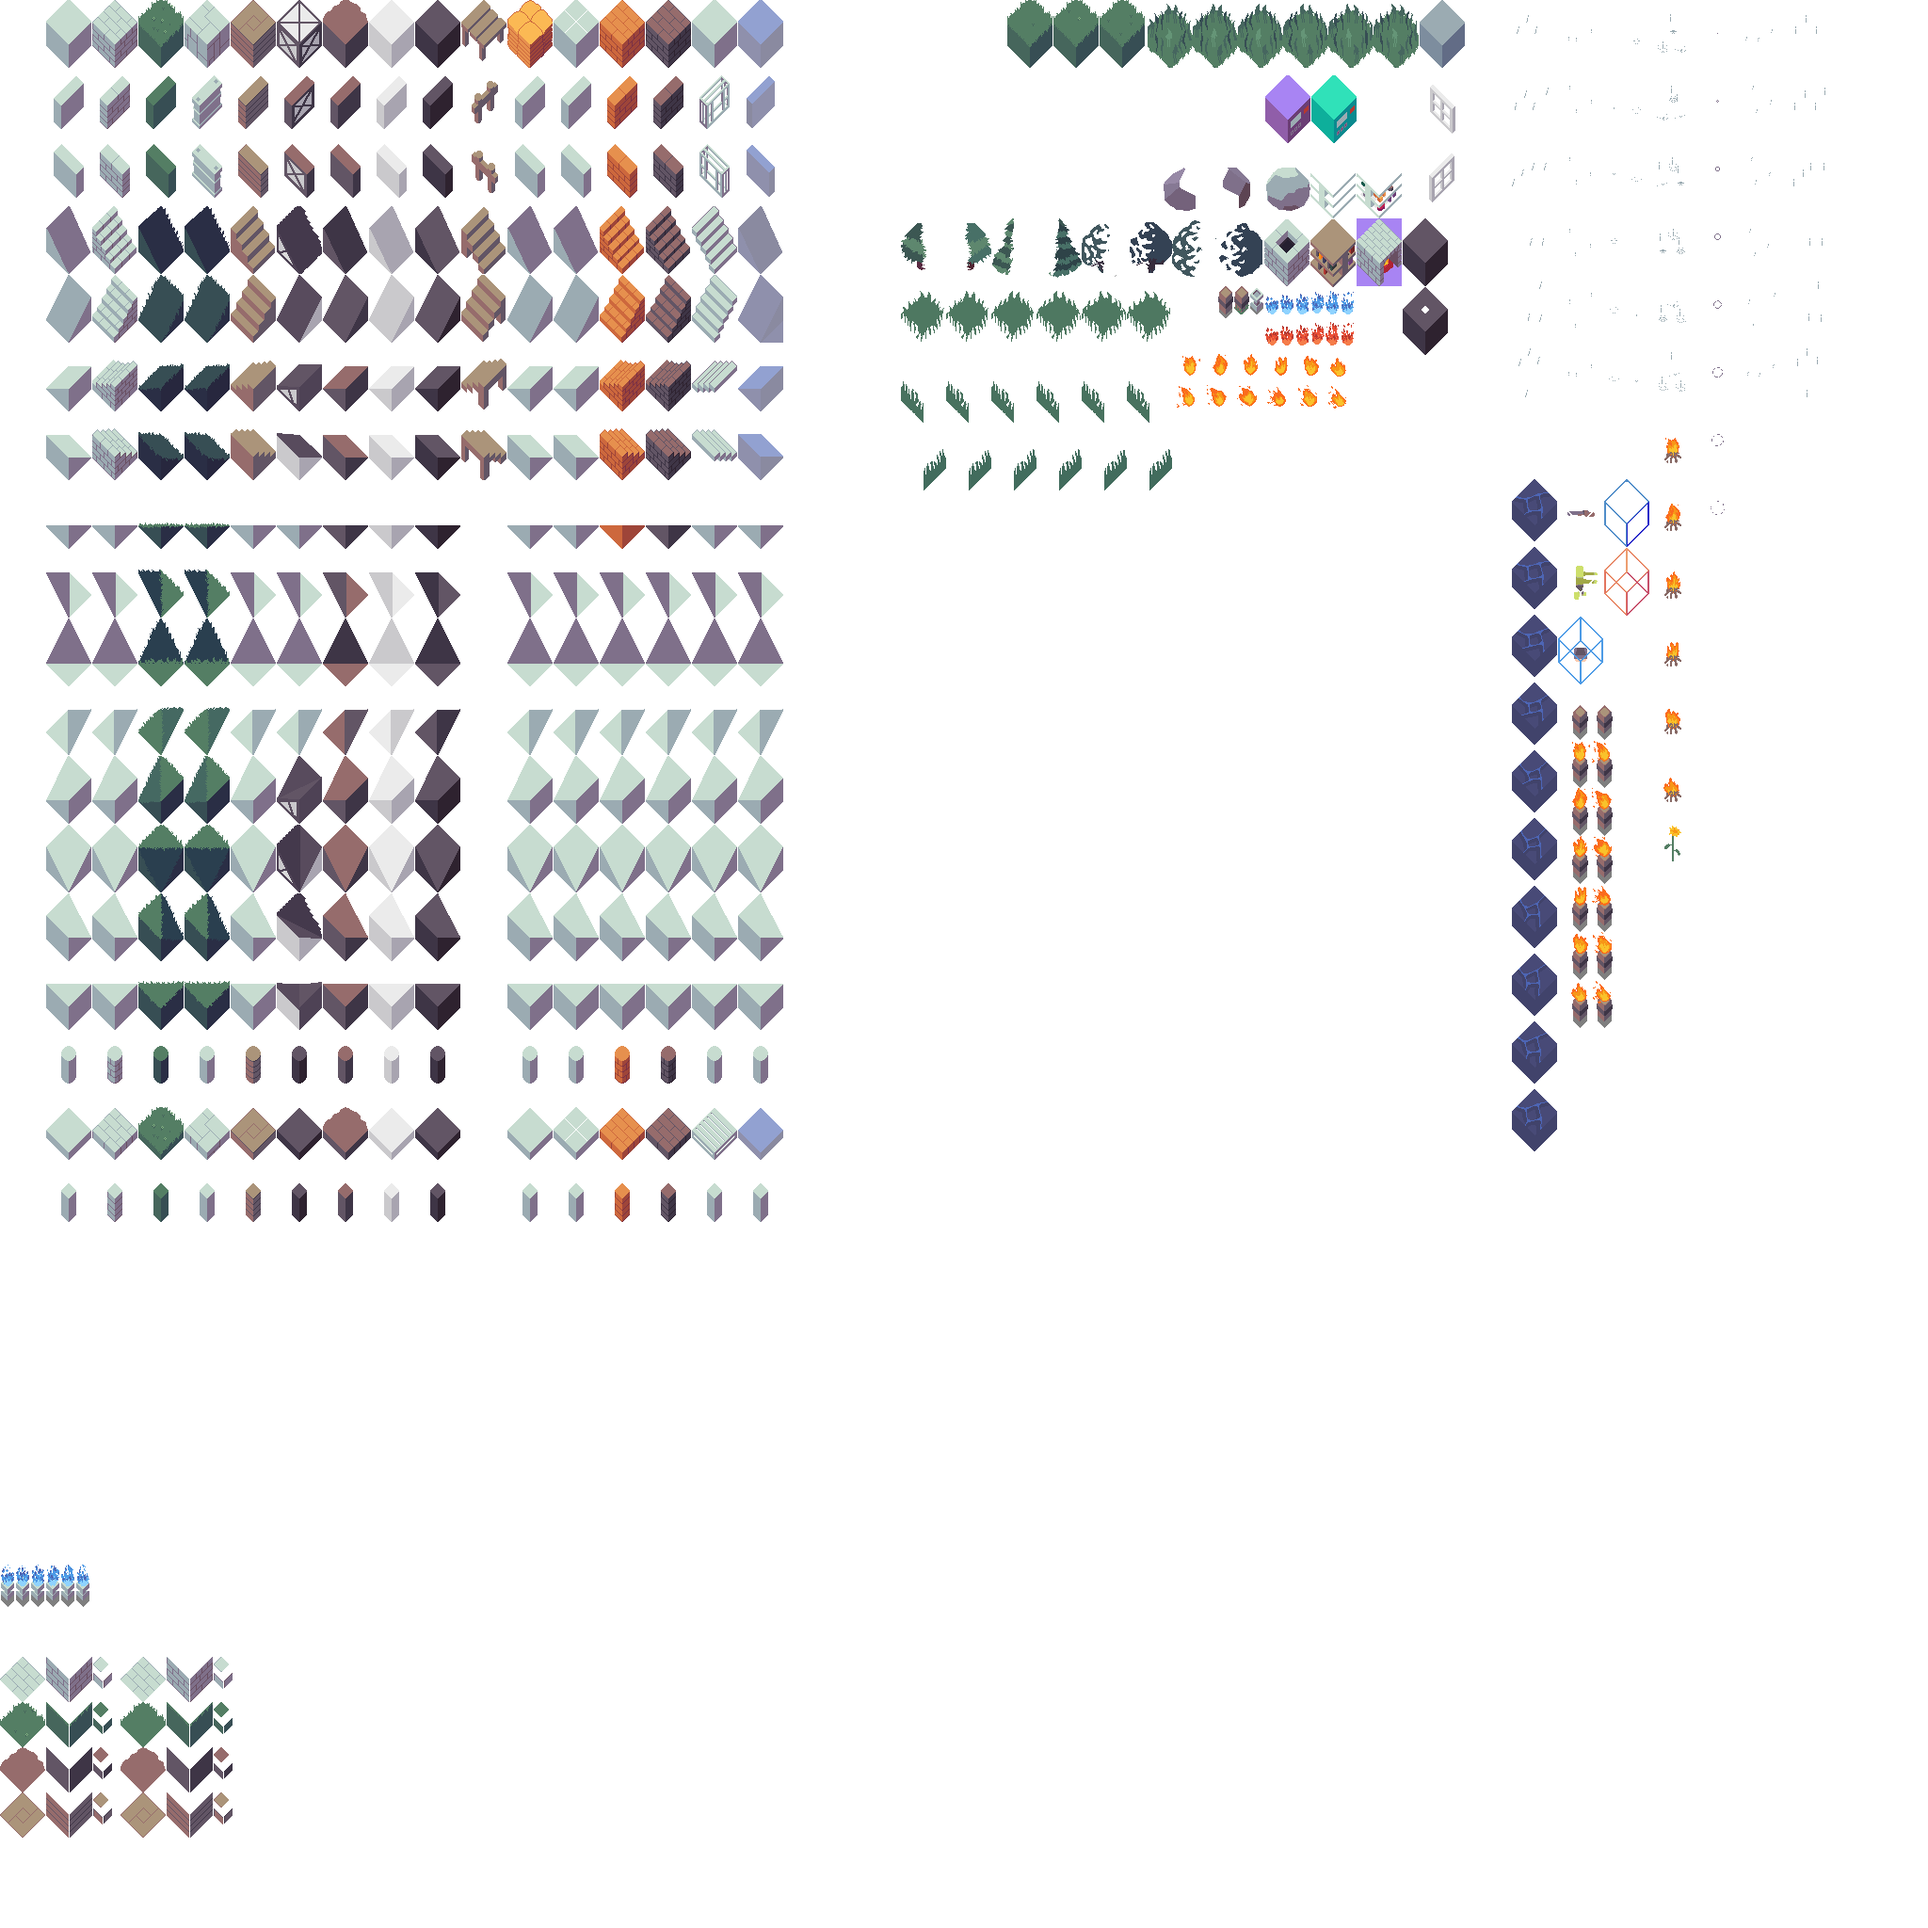
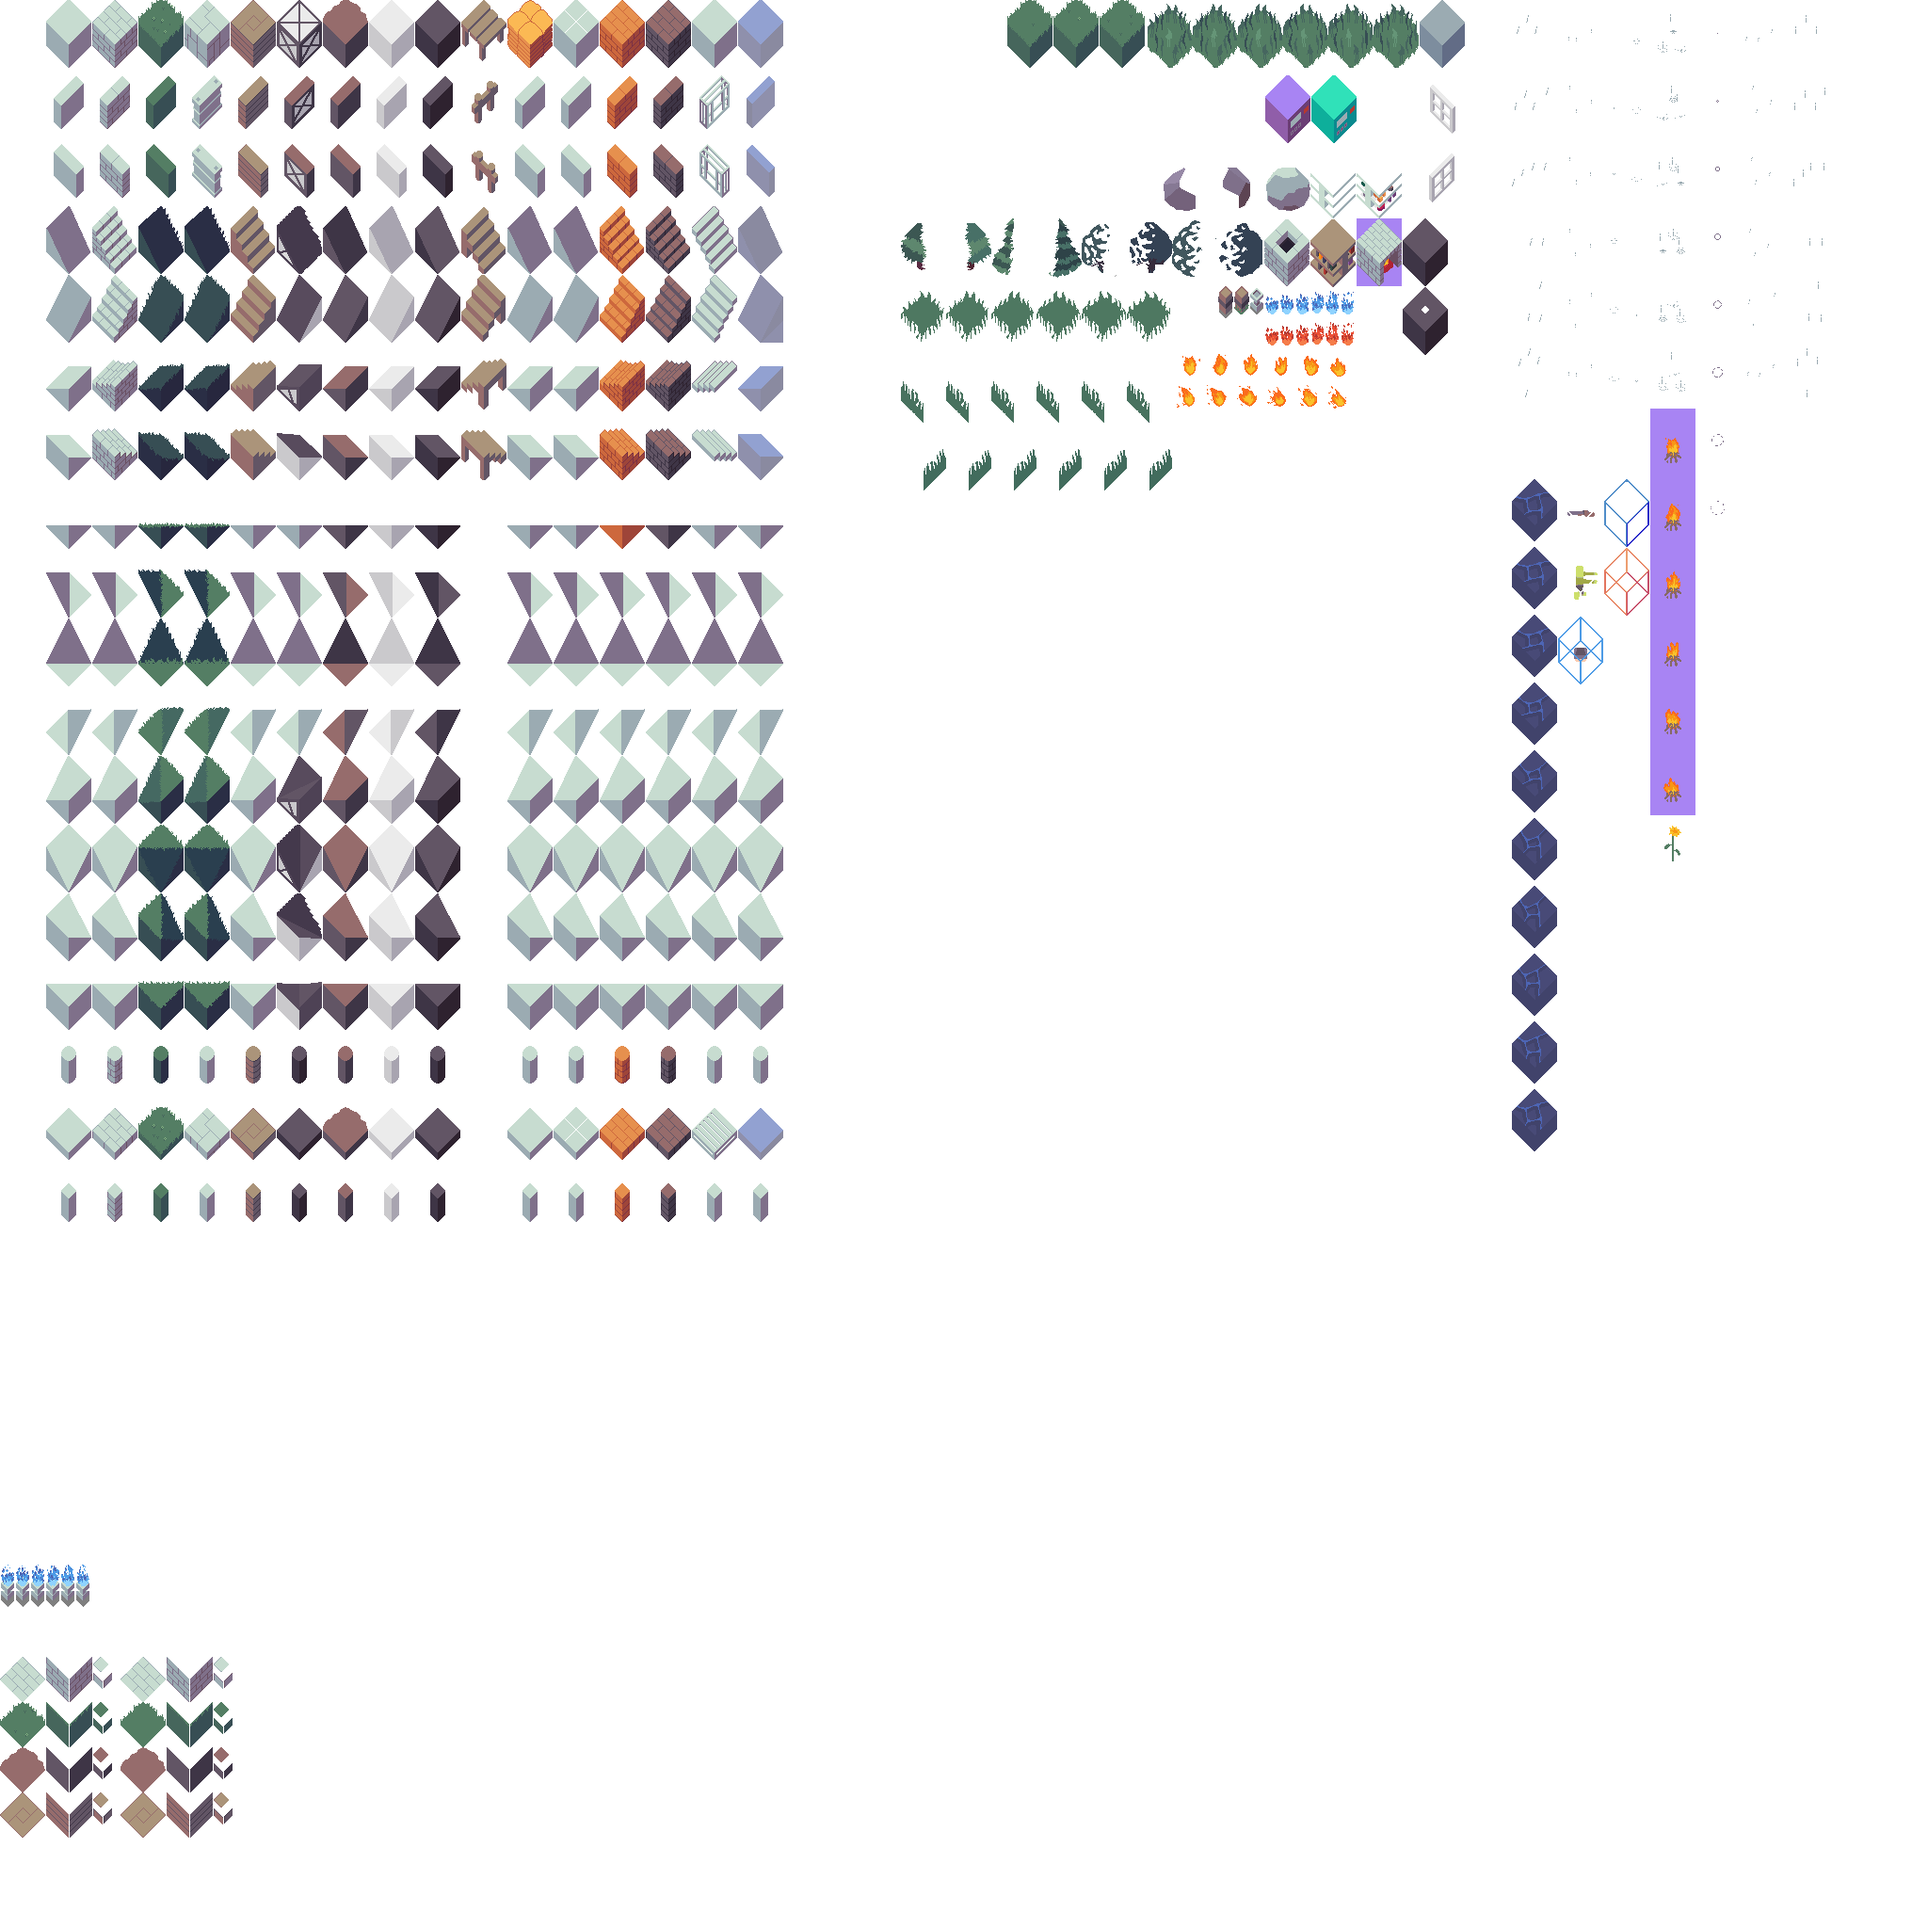
0.8.1416

Changed region(s): [[0.8125, 0.1875, 0.9062, 0.5312]]

diff --git a/gamestream_flutter/lib/gamestream/isometric/components/render/renderer_nodes.dart b/gamestream_flutter/lib/gamestream/isometric/components/render/renderer_nodes.dart
@@ -1023,10 +1023,7 @@ class RendererNodes extends IsometricRenderer {
         );
         return;
       case NodeType.Fireplace:
-        renderStandardNode(
-          srcX: AtlasNode.Src_Fireplace_X,
-          srcY: AtlasNode.Src_Fireplace_Y + ((isometric.animation.frame6) * AtlasNode.Src_Fireplace_Height),
-        );
+        renderFireplace();
         return;
       case NodeType.Boulder:
         renderBoulder();
@@ -1079,6 +1076,29 @@ class RendererNodes extends IsometricRenderer {
       default:
         throw Exception('renderNode(index: ${currentNodeIndex}, type: ${NodeType.getName(currentNodeType)}, orientation: ${NodeOrientation.getName(nodeOrientations[currentNodeIndex])}');
     }
+  }
+
+  void renderFireplace() {
+
+    engine.renderSprite(
+      image: atlasNodes,
+      srcX: AtlasNode.Src_Fireplace_X,
+      srcY: AtlasNode.Src_Fireplace_Y + (isometric.animation.frame6 * AtlasNode.Src_Fireplace_Height),
+      srcWidth: 48,
+      srcHeight: 72,
+      dstX: currentNodeDstX,
+      dstY: currentNodeDstY + 12,
+      color: 0,
+    );
+    // renderCustomNode(
+    //     srcX: AtlasNode.Src_Fireplace_X,
+    //     srcY: AtlasNode.Src_Fireplace_Y + (isometric.animation.frame6 * AtlasNode.Src_Fireplace_Height),
+    //     srcWidth: 48.0,
+    //     srcHeight: 72,
+    //     dstX: currentNodeDstX,
+    //     dstY: currentNodeDstY,
+    //     color: 0,
+    // );
   }
 
   void renderBoulder() {

diff --git a/gamestream_flutter/lib/gamestream/isometric/isometric.dart b/gamestream_flutter/lib/gamestream/isometric/isometric.dart
@@ -426,7 +426,7 @@ class Isometric extends WebsocketClientBuilder with
     for (var i = 0; i < totalProjectiles; i++) {
       final projectile = projectiles[i];
       if (projectile.type == ProjectileType.Rocket) {
-        particles.spawnParticleSmoke(x: projectile.x, y: projectile.y, z: projectile.z);
+        particles.emitSmoke(x: projectile.x, y: projectile.y, z: projectile.z);
         projectShadow(projectile);
         continue;
       }
@@ -647,17 +647,18 @@ class Isometric extends WebsocketClientBuilder with
 
     for (var i = 0; i < scene.smokeSourcesTotal; i++){
       final index = scene.smokeSources[i];
-      particles.spawnParticleSmoke(
+      particles.emitSmoke(
           x: scene.getIndexPositionX(index),
           y: scene.getIndexPositionY(index),
           z: scene.getIndexPositionZ(index),
+          duration: 150,
       );
     }
 
     for (final gameObject in gameObjects){
       if (!gameObject.active) continue;
       if (gameObject.type != ObjectType.Barrel_Flaming) continue;
-      particles.spawnParticleSmoke(
+      particles.emitSmoke(
           x: gameObject.x + giveOrTake(5),
           y: gameObject.y + giveOrTake(5),
           z: gameObject.z + 35,

diff --git a/gamestream_flutter/lib/gamestream/isometric/extensions/isometric_events.dart b/gamestream_flutter/lib/gamestream/isometric/extensions/isometric_events.dart
@@ -339,7 +339,7 @@ extension IsometricEvents on Isometric {
     final gunY = y - opp(angle, gun_distance);
 
     if (WeaponType.isFirearm(attackType)){
-      particles.spawnParticleSmoke(x: gunX, y: gunY, z: z, scale: 0.1, scaleV: 0.006, duration: 50);
+      particles.emitSmoke(x: gunX, y: gunY, z: z, scale: 0.1, scaleV: 0.006, duration: 50);
       particles.spawnParticleShell(gunX, gunY, z);
     }
     if (WeaponType.Firearms_Automatic.contains(attackType)){

diff --git a/gamestream_flutter/lib/gamestream/isometric/extensions/isometric_actions.dart b/gamestream_flutter/lib/gamestream/isometric/extensions/isometric_actions.dart
@@ -89,7 +89,7 @@ extension IsometricActions on Isometric {
 
     for (var i = 0; i < 7; i++) {
       const r = 5.0;
-      particles.spawnParticleSmoke(
+      particles.emitSmoke(
           x: x + giveOrTake(r),
           y: y + giveOrTake(r),
           z: z+ giveOrTake(r),

diff --git a/gamestream_flutter/lib/gamestream/isometric/mixins/isometric_particles.dart b/gamestream_flutter/lib/gamestream/isometric/mixins/isometric_particles.dart
@@ -209,7 +209,7 @@ class IsometricParticles {
     );
   }
 
-  Particle spawnParticleSmoke({
+  Particle emitSmoke({
     required double x,
     required double y,
     required double z,

diff --git a/bleed-common/lib/src/version.dart b/bleed-common/lib/src/version.dart
@@ -1,4 +1,4 @@
-const version = '0.8.1415';
+const version = '0.8.1416';
 
 
 

diff --git a/gamestream_flutter/lib/common/src/version.dart b/gamestream_flutter/lib/common/src/version.dart
@@ -1,4 +1,4 @@
-const version = '0.8.1415';
+const version = '0.8.1416';
 
 
 

diff --git a/gamestream_server/lib/common/src/version.dart b/gamestream_server/lib/common/src/version.dart
@@ -1,4 +1,4 @@
-const version = '0.8.1415';
+const version = '0.8.1416';
 
 
 

diff --git a/gamestream_flutter/README.md b/gamestream_flutter/README.md
@@ -13,35 +13,37 @@ alt + m             : go to declaration
 - tier two talents cost two skills points etc
 - floating txt on acquire health and xp
 
-[TODO]
-[ ] fix node transparency
+[SERVER]
 [ ] fix select position when up higher
 [ ] fix ai path following
+[ ] implement pathfinding separate and left and right stack frames
+[ ] implement town stash (automatically opens when nearby)
+[ ] implement character type skeleton
+[ ] implement character type float skeleton head
+[ ] implement npc store
+[*] implement attack speed modifier
+[*] implement character persistence
+[*] character face type
+[*] character skin color
+
+[CLIENT]
+[ ] fix node transparency
 [ ] fix character light emission
 [ ] implement long grass animations
 [ ] implement color flames windy
-[ ] implement node fireplace which emits smoke
-[ ] implement dynamically light tree faces
-[ ] implement pathfinding separate and left and right stack frames
 [ ] implement zombie death animation
 [ ] implement sounds on item drop for treasures
 [ ] implement character stats dialog
 [ ] implement sound pick up item
 [ ] implement ui items draggable
-[ ] implement town stash (automatically opens when nearby)
-[ ] implement character type skeleton 
-[ ] implement character type float skeleton head
-[ ] implement npc store
-[*] 3d animator 
-[*] implement attack speed modifier
-[*] implement character persistence
-[?] implement dynamic resolution scaling
 
 29.07.2023
+[x] implement node fireplace which emits smoke
 [x] fix grass variation
 
 28.07.2023
 [x] optimize render nodes
+[x] implement dynamically light tree faces
 
 27.07.2023
 [x] implement dynamic lighting trees
